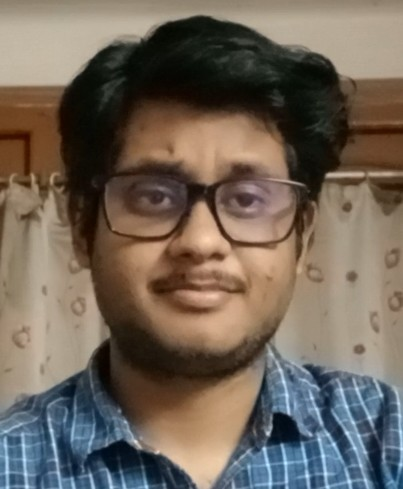
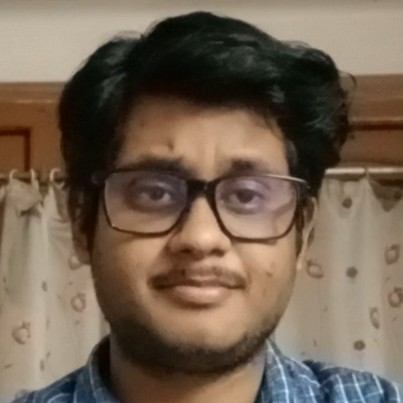
ui update

diff --git a/team.html b/team.html
@@ -214,8 +214,8 @@
                 <!-- Grid column -->
                 <div class="col-md-2 mb-md-0 mb-5">
                     <div class="avatar mx-auto">
-                        <img src="assets/img/team/Urwah_image - Urwah Jawaid.jpg"
-                            class="rounded z-depth-1-half" style="height:250px; width: 250px;" alt="Sample avatar">
+                        <img src="assets/img/team/Urwah_image - Urwah Jawaid.jpg" class="rounded z-depth-1-half"
+                             alt="Sample avatar">
                     </div>
                     <h4 class="font-weight-bold dark-grey-text my-4">Urwah Mohammad Jawaid</h4>
                     <h6 class="text-uppercase grey-text mb-3"><strong>Chairperson</strong></h6>
@@ -242,7 +242,7 @@
                 <div class="col-md-2 mb-md-0 mb-5">
                     <div class="avatar mx-auto">
                         <img src="assets/img/team/20230108_162252 - Shuddhasattwa Guha.jpg" class="rounded z-depth-1-half"
-                            style="height: 250px; width: 250px;" alt="Sample avatar">
+                             alt="Sample avatar">
                     </div>
                     <h4 class="font-weight-bold dark-grey-text my-4">Shuddhasattwa Guha</h4>
                     <h6 class="text-uppercase grey-text mb-3"><strong>Vice-Chairperson</strong></h6>
@@ -268,7 +268,7 @@
                 <div class="col-md-2 mb-md-0 mb-5">
                     <div class="avatar mx-auto">
                         <img src="assets/img/team/WhatsApp Image 2023-02-02 at 12.14.43 - Sk Mustafa Kamal.jpeg"
-                            class="rounded z-depth-1-half" style="height: 250px; width: 250px;" alt="Sample avatar">
+                            class="rounded z-depth-1-half"  alt="Sample avatar">
                     </div>
                     <h4 class="font-weight-bold dark-grey-text my-4">Sk Mustafa Kamal </h4>
                     <h6 class="text-uppercase grey-text mb-3"><strong>Secretary</strong></h6>
@@ -290,7 +290,7 @@
                 <div class="col-md-2  mb-md-0 mb-5">
                     <div class="avatar mx-auto">
                         <img src="assets/img/team/1673345288932-01 - Dhritiman Debnath.jpeg" class="rounded z-depth-1-half"
-                            style="height: 250px; width: 250px;" alt="Sample avatar">
+                             alt="Sample avatar">
                     </div>
                     <h4 class="font-weight-bold dark-grey-text my-4">Dhritiman Debnath</h4>
                     <h6 class="text-uppercase grey-text mb-3"><strong>Treasurer</strong></h6>
@@ -316,7 +316,7 @@
                 <div class="col-md-2  mb-md-0 mb-5">
                     <div class="avatar mx-auto">
                         <img src="assets/img/team/SquarePic_20220501_12244031 - Subhadip De.jpg" class="rounded z-depth-1-half"
-                            style="height: 250px; width: 250px;" alt="Sample avatar">
+                             alt="Sample avatar">
                     </div>
                     <h4 class="font-weight-bold dark-grey-text my-4">Subhadip De</h4>
                     <h6 class="text-uppercase grey-text mb-3"><strong>Webmaster</strong></h6>
@@ -349,7 +349,7 @@
                 <div class="col-md-2  mb-md-0 mb-5">
                     <div class="avatar mx-auto">
                         <img src="assets/img/team/WhatsApp Image 2023-02-05 at 22.29.22.jpeg" class="rounded z-depth-1-half"
-                            style="height: 250px; width: 250px;" alt="Sample avatar">
+                             alt="Sample avatar">
                     </div>
                     <h4 class="font-weight-bold dark-grey-text my-4">Sainik Khaddar</h4>
                     <h6 class="text-uppercase grey-text mb-3"><strong>Technical Lead</strong></h6>
@@ -375,7 +375,7 @@
                 <div class="col-md-2 mb-md-0 mb-5">
                     <div class="avatar mx-auto">
                         <img src="assets/img/team/20221004_102243 - Rajarshi Mukherjee.jpg" class="rounded z-depth-1-half"
-                            style="height: 250px; width: 250px;" alt="Sample avatar">
+                             alt="Sample avatar">
                     </div>
                     <h4 class="font-weight-bold dark-grey-text my-4">Rajarshi Mukherjee</h4>
                     <h6 class="text-uppercase grey-text mb-3"><strong>Content Lead</strong></h6>
@@ -392,7 +392,7 @@
                 <div class="col-md-2 mb-md-0 mb-5">
                     <div class="avatar mx-auto">
                         <img src="assets/img/team/1671547972879 - Dipayan Bhattacharyya.jpeg"
-                            class="rounded z-depth-1-half" style="height: 250px; width: 250px;" alt="Sample avatar">
+                            class="rounded z-depth-1-half"  alt="Sample avatar">
                     </div>
                     <h4 class="font-weight-bold dark-grey-text my-4">Dipayan Bhattacharyya</h4>
                     <h6 class="text-uppercase grey-text mb-3"><strong>Design Lead</strong></h6>
@@ -418,7 +418,7 @@
                 <div class="col-md-2 mb-md-0 mb-5">
                     <div class="avatar mx-auto">
                         <img src="assets/img/team/20221012_210417 - Somenath Garai.jpg"
-                        class="rounded z-depth-1-half" style="height: 250px; width: 250px;" alt="Sample avatar">
+                        class="rounded z-depth-1-half"  alt="Sample avatar">
                     </div>
                     <h4 class="font-weight-bold dark-grey-text my-4">Somenath Garai</h4>
                     <h6 class="text-uppercase grey-text mb-3"><strong>PR Lead</strong></h6>
@@ -444,7 +444,7 @@
                 <div class="col-md-2 mb-md-0 mb-5">
                     <div class="avatar mx-auto">
                         <img src="assets/img/team/FB_IMG_1665587818131 - Ashutosh Jha.jpg"
-                        class="rounded z-depth-1-half" style="height: 250px; width: 250px;" alt="Sample avatar">
+                        class="rounded z-depth-1-half"  alt="Sample avatar">
                     </div>
                     <h4 class="font-weight-bold dark-grey-text my-4">Ashutosh Jha</h4>
                     <h6 class="text-uppercase grey-text mb-3"><strong>Logistic Lead</strong></h6>
@@ -482,7 +482,7 @@
                 <div class="col-md-2  mb-md-0 mb-5">
                     <div class="avatar mx-auto">
                         <img src="assets/img/team/Screenshot_20230202-180715_LinkedIn - Subham Sinha.jpg"
-                            class="rounded z-depth-1-half" style="height: 250px; width: 250px;" alt="Sample avatar">
+                            class="rounded z-depth-1-half"  alt="Sample avatar">
                     </div>
                     <h4 class="font-weight-bold dark-grey-text my-4">Subham Sinha</h4>
                     <h6 class="text-uppercase grey-text mb-3"><strong>Vice-Chairperson</strong></h6>
@@ -505,10 +505,10 @@
                 <!-- Grid column -->
 
 
-                <div class="col-md-2  mb-md-0 mb-5">
-                    <div class="avatar mx-auto">
+                <div class="col-md-3  mb-md-0 mb-5">
+                    <div class="chairp-avatar mx-auto">
                         <img src="assets/img/team/WhatsApp Image 2023-02-05 at 22.29.22.jpeg" class="rounded z-depth-1-half"
-                            style="height: 250px; width: 250px;" alt="Sample avatar">
+                             alt="Sample avatar">
                     </div>
                     <h4 class="font-weight-bold dark-grey-text my-4">Sainik Khaddar</h4>
                     <h6 class="text-uppercase grey-text mb-3"><strong>Chairperson</strong></h6>
@@ -533,7 +533,7 @@
                 <div class="col-md-2 mb-md-0 mb-5">
                     <div class="avatar mx-auto">
                         <img src="assets/img/team/dishadas.jpeg"
-                            class="rounded z-depth-1-half" style="height: 250px; width: 250px;" alt="Sample avatar">
+                            class="rounded z-depth-1-half"  alt="Sample avatar">
                     </div>
                     <h4 class="font-weight-bold dark-grey-text my-4">Disha Das</h4>
                     <h6 class="text-uppercase grey-text mb-3"><strong>Secretary</strong></h6>
@@ -565,7 +565,7 @@
                 <div class="col-md-2 mb-md-0 mb-5">
                     <div class="avatar mx-auto">
                         <img src="assets/img/team/WhatsApp Image 2022-06-02 at 4.22.18 PM - Saptarshi Pani.jpeg" class="rounded z-depth-1-half"
-                            style="height: 250px; width: 250px;" alt="Sample avatar">
+                             alt="Sample avatar">
                     </div>
                     <h4 class="font-weight-bold dark-grey-text my-4">Saptarshi Pani</h4>
                     <h6 class="text-uppercase grey-text mb-3"><strong>Vice-Chairperson</strong></h6>
@@ -589,10 +589,10 @@
 
 
                 <!-- Grid column -->
-                <div class="col-md-2 mb-md-0 mb-5">
-                    <div class="avatar mx-auto">
+                <div class="col-md-3 mb-md-0 mb-5">
+                    <div class="chairp-avatar mx-auto">
                         <img src="assets/img/team/WhatsApp Image 2022-10-16 sayan mandal.jpeg"
-                            class="rounded z-depth-1-half" style="height: 250px; width: 250px;" alt="Sample avatar">
+                            class="rounded z-depth-1-half"  alt="Sample avatar">
                     </div>
                     <h4 class="font-weight-bold dark-grey-text my-4">Sayan Mandal</h4>
                     <h6 class="text-uppercase grey-text mb-3"><strong>Chairperson</strong></h6>
@@ -619,7 +619,7 @@
                 <div class="col-md-2 mb-md-0 mb-5">
                     <div class="avatar mx-auto">
                         <img src="assets/img/team/IEEE Image - Arka Roy.jpg" class="rounded z-depth-1-half"
-                            style="height: 250px; width: 250px;" alt="Sample avatar">
+                             alt="Sample avatar">
                     </div>
                     <h4 class="font-weight-bold dark-grey-text my-4">Arka Roy</h4>
                     <h6 class="text-uppercase grey-text mb-3"><strong>Secretary</strong></h6>
@@ -651,16 +651,15 @@
 
             <br>
             <!-- Grid row -->
+
             <div class="row text-center justify-content-center">
-
-
 
 
                 <!-- Grid column -->
                 <div class="col-md-2 mb-md-0 mb-5">
                     <div class="avatar mx-auto">
                         <img src="assets/img/team/20221004_120659 - Arya Kanta.jpg"
-                            class="rounded z-depth-1-half" style="height: 250px; width: 250px;" alt="Sample avatar">
+                            class="rounded z-depth-1-half"  alt="Sample avatar">
                     </div>
                     <h4 class="font-weight-bold dark-grey-text my-4">Arya Kanta</h4>
                     <h6 class="text-uppercase grey-text mb-3"><strong>Vice-Chairperson</strong></h6>
@@ -669,10 +668,10 @@
                 
 
                 <!-- Grid column -->
-                <div class="col-md-2 mb-md-0 mb-5">
-                    <div class="avatar mx-auto">
+                <div class="col-md-3 mb-md-0 mb-5">
+                    <div class="chairp-avatar mx-auto">
                         <img src="assets/img/team/anuskha.jpg" class="rounded z-depth-1-half"
-                            style="height: 250px; width: 250px;" alt="Sample avatar">
+                             alt="Sample avatar">
                     </div>
                     <h4 class="font-weight-bold dark-grey-text my-4">Anushka Biswas</h4>
                     <h6 class="text-uppercase grey-text mb-3"><strong>Chairperson</strong></h6>
@@ -699,7 +698,7 @@
                 <div class="col-md-2 mb-md-0 mb-5">
                     <div class="avatar mx-auto">
                         <img src="assets/img/team/pic - Trisha Samanta.jpg" class="rounded z-depth-1-half"
-                            style="height: 250px; width: 250px;" alt="Sample avatar">
+                             alt="Sample avatar">
                     </div>
                     <h4 class="font-weight-bold dark-grey-text my-4">Trisha Samanta</h4>
                     <h6 class="text-uppercase grey-text mb-3"><strong>Secretary</strong></h6>
@@ -728,7 +727,7 @@
                 <div class="col-md-2 mb-md-0 mb-5">
                     <div class="avatar mx-auto">
                         <img src="assets/img/team/Kanko Ghosh.PNG" class="rounded z-depth-1-half"
-                            style="height: 250px; width: 250px;" alt="Sample avatar">
+                             alt="Sample avatar">
                     </div>
                     <h4 class="font-weight-bold dark-grey-text my-4">Kanko Ghosh</h4>
                     <h6 class="text-uppercase grey-text mb-3"><strong>Technical Team</strong></h6>
@@ -744,7 +743,7 @@
                 <div class="col-md-2 mb-md-0 mb-5">
                     <div class="avatar mx-auto">
                         <img src="assets/img/team/soumyadip - SOUMYADIP MALLICK.jpg"
-                            class="rounded z-depth-1-half" style="height: 250px; width: 250px;" alt="Sample avatar">
+                            class="rounded z-depth-1-half"  alt="Sample avatar">
                     </div>
                     <h4 class="font-weight-bold dark-grey-text my-4">Soumyadip Mallick</h4>
                     <h6 class="text-uppercase grey-text mb-3"><strong>Technical Team</strong></h6>
@@ -770,7 +769,7 @@
                 <div class="col-md-2  mb-md-0 mb-5">
                     <div class="avatar mx-auto">
                         <img src="assets/img/team/sutirtha_pic - Sutirtha Naha.jpeg" class="rounded z-depth-1-half"
-                            style="height: 250px; width: 250px;" alt="Sample avatar">
+                             alt="Sample avatar">
                     </div>
                     <h4 class="font-weight-bold dark-grey-text my-4">Sutirtha Naha</h4>
                     <h6 class="text-uppercase grey-text mb-3"><strong>Technical Team</strong></h6>
@@ -807,7 +806,7 @@
                 <div class="col-md-2 mb-md-0 mb-5">
                     <div class="avatar mx-auto">
                         <img src="assets/img/team/20221012_181310 - Souvik Saha.jpg" class="rounded z-depth-1-half"
-                            style="height:250px; width: 250px;" alt="Sample avatar">
+                             alt="Sample avatar">
                     </div>
                     <h4 class="font-weight-bold dark-grey-text my-4">Souvik Saha</h4>
                     <h6 class="text-uppercase grey-text mb-3"><strong>Technical Team</strong></h6>
@@ -833,7 +832,7 @@
                 <div class="col-md-2 mb-md-0 mb-5">
                     <div class="avatar mx-auto">
                         <img src="assets/img/team/IMG_20221012_233850 - soham chaudhuri.jpg" class="rounded z-depth-1-half"
-                            style="height: 250px; width: 250px;" alt="Sample avatar">
+                             alt="Sample avatar">
                     </div>
                     <h4 class="font-weight-bold dark-grey-text my-4">Soham Chaudhuri</h4>
                     <h6 class="text-uppercase grey-text mb-3"><strong>Technical Team</strong></h6>
@@ -849,7 +848,7 @@
                 <div class="col-md-2  mb-md-0 mb-5">
                     <div class="avatar mx-auto">
                         <img src="assets/img/team/Uttam dutta - Uttam Dutta.jpg" class="rounded z-depth-1-half"
-                            style="height: 250px; width: 250px;" alt="Sample avatar">
+                             alt="Sample avatar">
                     </div>
                     <h4 class="font-weight-bold dark-grey-text my-4">Uttam Kanti Dutta</h4>
                     <h6 class="text-uppercase grey-text mb-3"><strong>Technical Team</strong></h6>
@@ -875,7 +874,7 @@
                 <div class="col-md-2  mb-md-0 mb-5">
                     <div class="avatar mx-auto">
                         <img src="assets/img/team/WhatsApp Image debarghya palit.jpeg" class="rounded z-depth-1-half"
-                            style="height: 250px; width: 250px;" alt="Sample avatar">
+                             alt="Sample avatar">
                     </div>
                     <h4 class="font-weight-bold dark-grey-text my-4">Debargha Palit</h4>
                     <h6 class="text-uppercase grey-text mb-3"><strong>Technical Team</strong></h6>
@@ -922,7 +921,7 @@
                 <div class="col-md-2 mb-md-0 mb-5">
                     <div class="avatar mx-auto">
                         <img src="assets/img/team/1666023895628 - Soukarya Biswas.jpg"
-                            class="rounded z-depth-1-half" style="height: 250px; width: 250px;" alt="Sample avatar">
+                            class="rounded z-depth-1-half"  alt="Sample avatar">
                     </div>
                     <h4 class="font-weight-bold dark-grey-text my-4">Soukarya Biswas</h4>
                     <h6 class="text-uppercase grey-text mb-3"><strong>Design Team</strong></h6>
@@ -952,7 +951,7 @@
                 <div class="col-md-2 mb-md-0 mb-5">
                     <div class="avatar mx-auto">
                         <img src="assets/img/team/Screenshot_20210731-154546_Video Player - Arkaprovo Acharya.jpg"
-                            class="rounded z-depth-1-half" style="height: 250px; width: 250px;" alt="Sample avatar">
+                            class="rounded z-depth-1-half"  alt="Sample avatar">
                     </div>
                     <h4 class="font-weight-bold dark-grey-text my-4">Arkaprovo Acharya</h4>
                     <h6 class="text-uppercase grey-text mb-3"><strong>Content Team</strong></h6>
@@ -978,7 +977,7 @@
                 <div class="col-md-2 mb-md-0 mb-5">
                     <div class="avatar mx-auto">
                         <img src="assets/img/team/IMG_20220508_110835 - Debjyoti Nandi.jpg"
-                            class="rounded z-depth-1-half" style="height: 250px; width: 250px;" alt="Sample avatar">
+                            class="rounded z-depth-1-half"  alt="Sample avatar">
                     </div>
                     <h4 class="font-weight-bold dark-grey-text my-4">Debjyoti Nandi</h4>
                     <h6 class="text-uppercase grey-text mb-3"><strong>Content Team</strong></h6>
@@ -989,7 +988,7 @@
                 <div class="col-md-2 mb-md-0 mb-5">
                     <div class="avatar mx-auto">
                         <img src="assets/img/team/dp - Soham Roy Chowdhury.jpg"
-                            class="rounded z-depth-1-half" style="height: 250px; width: 250px;" alt="Sample avatar">
+                            class="rounded z-depth-1-half"  alt="Sample avatar">
                     </div>
                     <h4 class="font-weight-bold dark-grey-text my-4">Soham Roy Chowdhury</h4>
                     <h6 class="text-uppercase grey-text mb-3"><strong>Content Team</strong></h6>
@@ -1015,7 +1014,7 @@
                 <div class="col-md-2 mb-md-0 mb-5">
                     <div class="avatar mx-auto">
                         <img src="assets/img/team/Screenshot_2022-10-14-13-07-56-41_1c337646f29875672b5a61192b9010f9 - auro anand saha.jpg"
-                            class="rounded z-depth-1-half" style="height: 250px; width: 250px;" alt="Sample avatar">
+                            class="rounded z-depth-1-half"  alt="Sample avatar">
                     </div>
                     <h4 class="font-weight-bold dark-grey-text my-4">Auro Anand Saha</h4>
                     <h6 class="text-uppercase grey-text mb-3"><strong>Content Team</strong></h6>
@@ -1055,7 +1054,7 @@
                 <div class="col-md-2 mb-md-0 mb-5">
                     <div class="avatar mx-auto">
                         <img src="assets/img/team/Supratim Image - Supratim Sarkar.jpg"
-                            class="rounded z-depth-1-half" style="height:250px; width: 250px;" alt="Sample avatar">
+                            class="rounded z-depth-1-half"  alt="Sample avatar">
                     </div>
                     <h4 class="font-weight-bold dark-grey-text my-4">Supratim Sarkar</h4>
                     <h6 class="text-uppercase grey-text mb-3"><strong>Logistics Team</strong></h6>
@@ -1076,7 +1075,7 @@
                 <div class="col-md-2 mb-md-0 mb-5">
                     <div class="avatar mx-auto">
                         <img src="assets/img/team/DSC4195 - Archit Raj Lal.JPG" class="rounded z-depth-1-half"
-                            style="height: 250px; width: 250px;" alt="Sample avatar">
+                             alt="Sample avatar">
                     </div>
                     <h4 class="font-weight-bold dark-grey-text my-4">Archit Raj Lal</h4>
                     <h6 class="text-uppercase grey-text mb-3"><strong>Logistics Team</strong></h6>
@@ -1092,7 +1091,7 @@
                 <div class="col-md-2 mb-md-0 mb-5">
                     <div class="avatar mx-auto">
                         <img src="assets/img/team/IMG_20220722_121003_582 - Sushmita Sarkar.jpg" class="rounded z-depth-1-half"
-                            style="height: 250px; width: 250px;" alt="Sample avatar">
+                             alt="Sample avatar">
                     </div>
                     <h4 class="font-weight-bold dark-grey-text my-4">Sushmita Sarkar</h4>
                     <h6 class="text-uppercase grey-text mb-3"><strong>Logistics Team</strong></h6>
@@ -1124,7 +1123,7 @@
                 <div class="col-md-2 mb-md-0 mb-5">
                     <div class="avatar mx-auto">
                         <img src="assets/img/team/B612_20210911_211627_438 - Debasmita Deoghuria.jpg"
-                            class="rounded z-depth-1-half" style="height: 250px; width: 250px;" alt="Sample avatar">
+                            class="rounded z-depth-1-half"  alt="Sample avatar">
                     </div>
                     <h4 class="font-weight-bold dark-grey-text my-4">Debasmita Deoghuria</h4>
                     <h6 class="text-uppercase grey-text mb-3"><strong>PR Team</strong></h6>
@@ -1145,7 +1144,7 @@
                 <div class="col-md-2 mb-md-0 mb-5">
                     <div class="avatar mx-auto">
                         <img src="assets/img/team/Screenshot_2022-10-13-00-02-29-46 - Sanlap Banerjee.png"
-                            class="rounded z-depth-1-half" style="height: 250px; width: 250px;" alt="Sample avatar">
+                            class="rounded z-depth-1-half"  alt="Sample avatar">
                     </div>
                     <h4 class="font-weight-bold dark-grey-text my-4">Sanlap Banerjee</h4>
                     <h6 class="text-uppercase grey-text mb-3"><strong>PR Team</strong></h6>

diff --git a/assets/css/style.css b/assets/css/style.css
@@ -1608,6 +1608,11 @@ section {
   font-weight: 300;
 }
 
+.team-section {
+    padding:  0 0 60px 0;
+    overflow: hidden;
+}
+
 .team4 h1,
 .team4 h2,
 .team4 h3,
@@ -1649,6 +1654,21 @@ section {
   -webkit-transform: translate3d(0px, -5px, 0px);
   transform: translate3d(0px, -5px, 0px);
   color: #316ce8;
+}
+
+.avatar img{
+    height: 11.5vw;
+}
+
+.chairp-avatar img{
+    height: 16vw;
+} 
+
+@media screen and (max-width: 768px){
+    .avatar img,
+    .chairp-avatar img{
+        height: 50vw;
+    }
 }
 
 /*--------------------------------------------------------------
